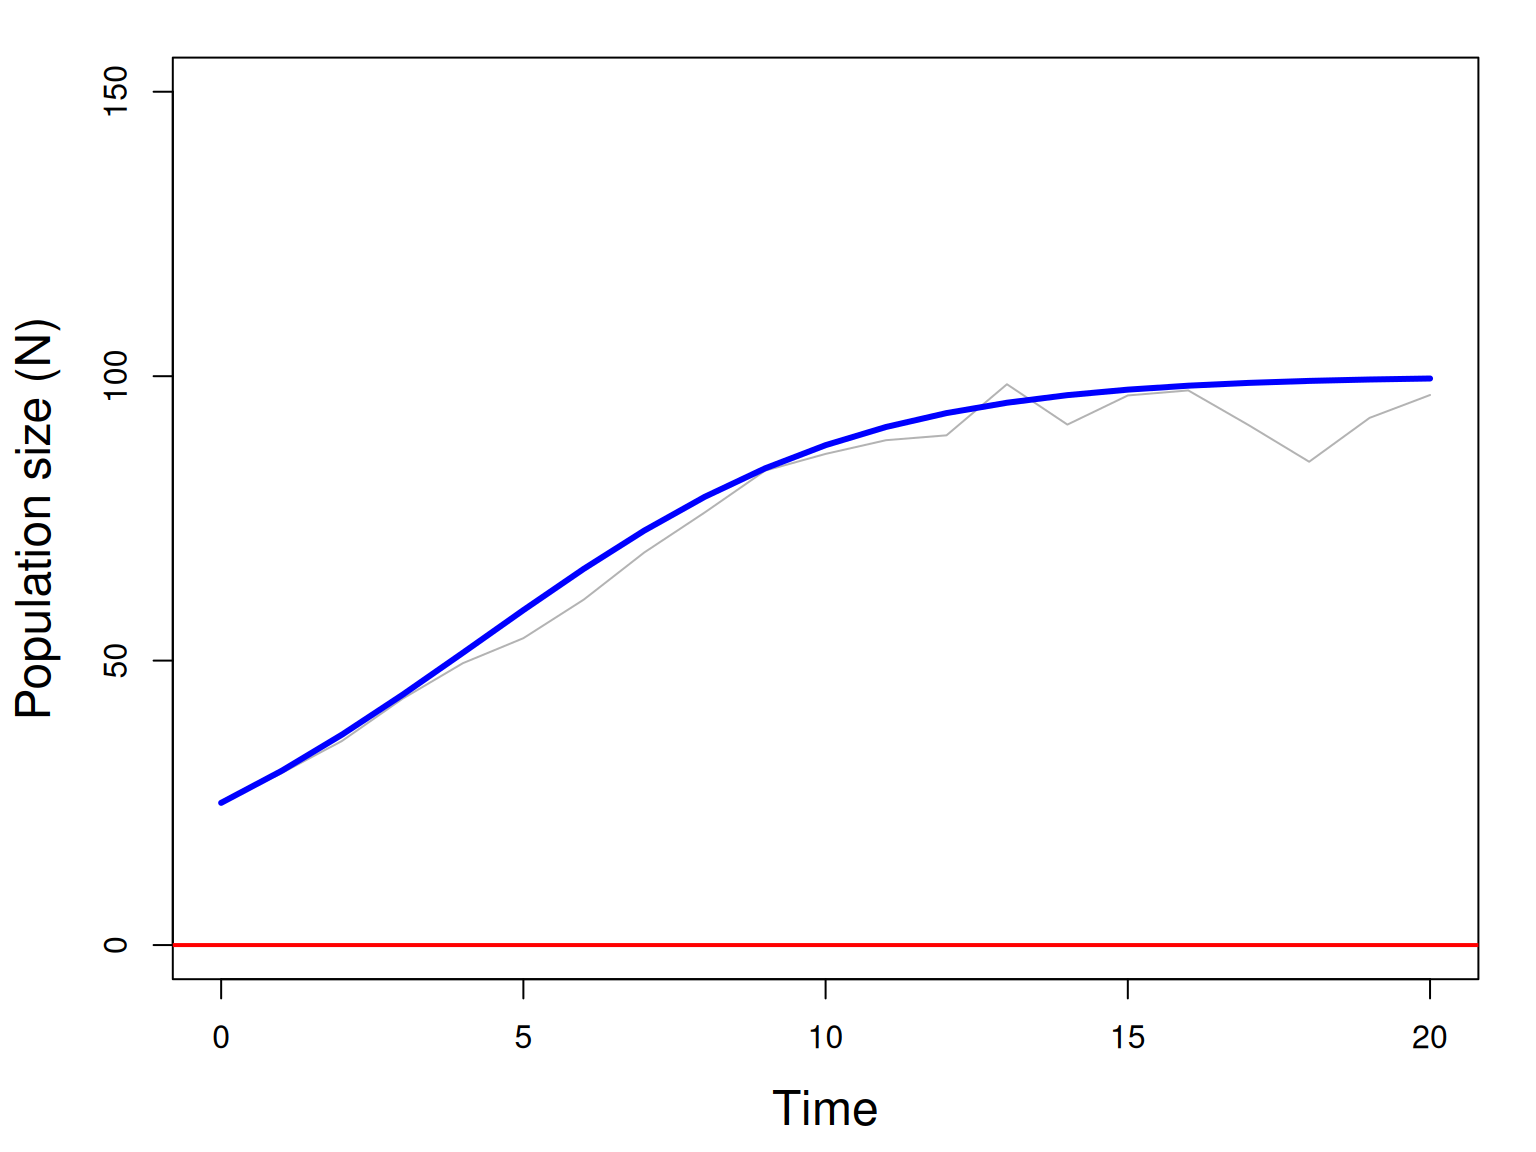
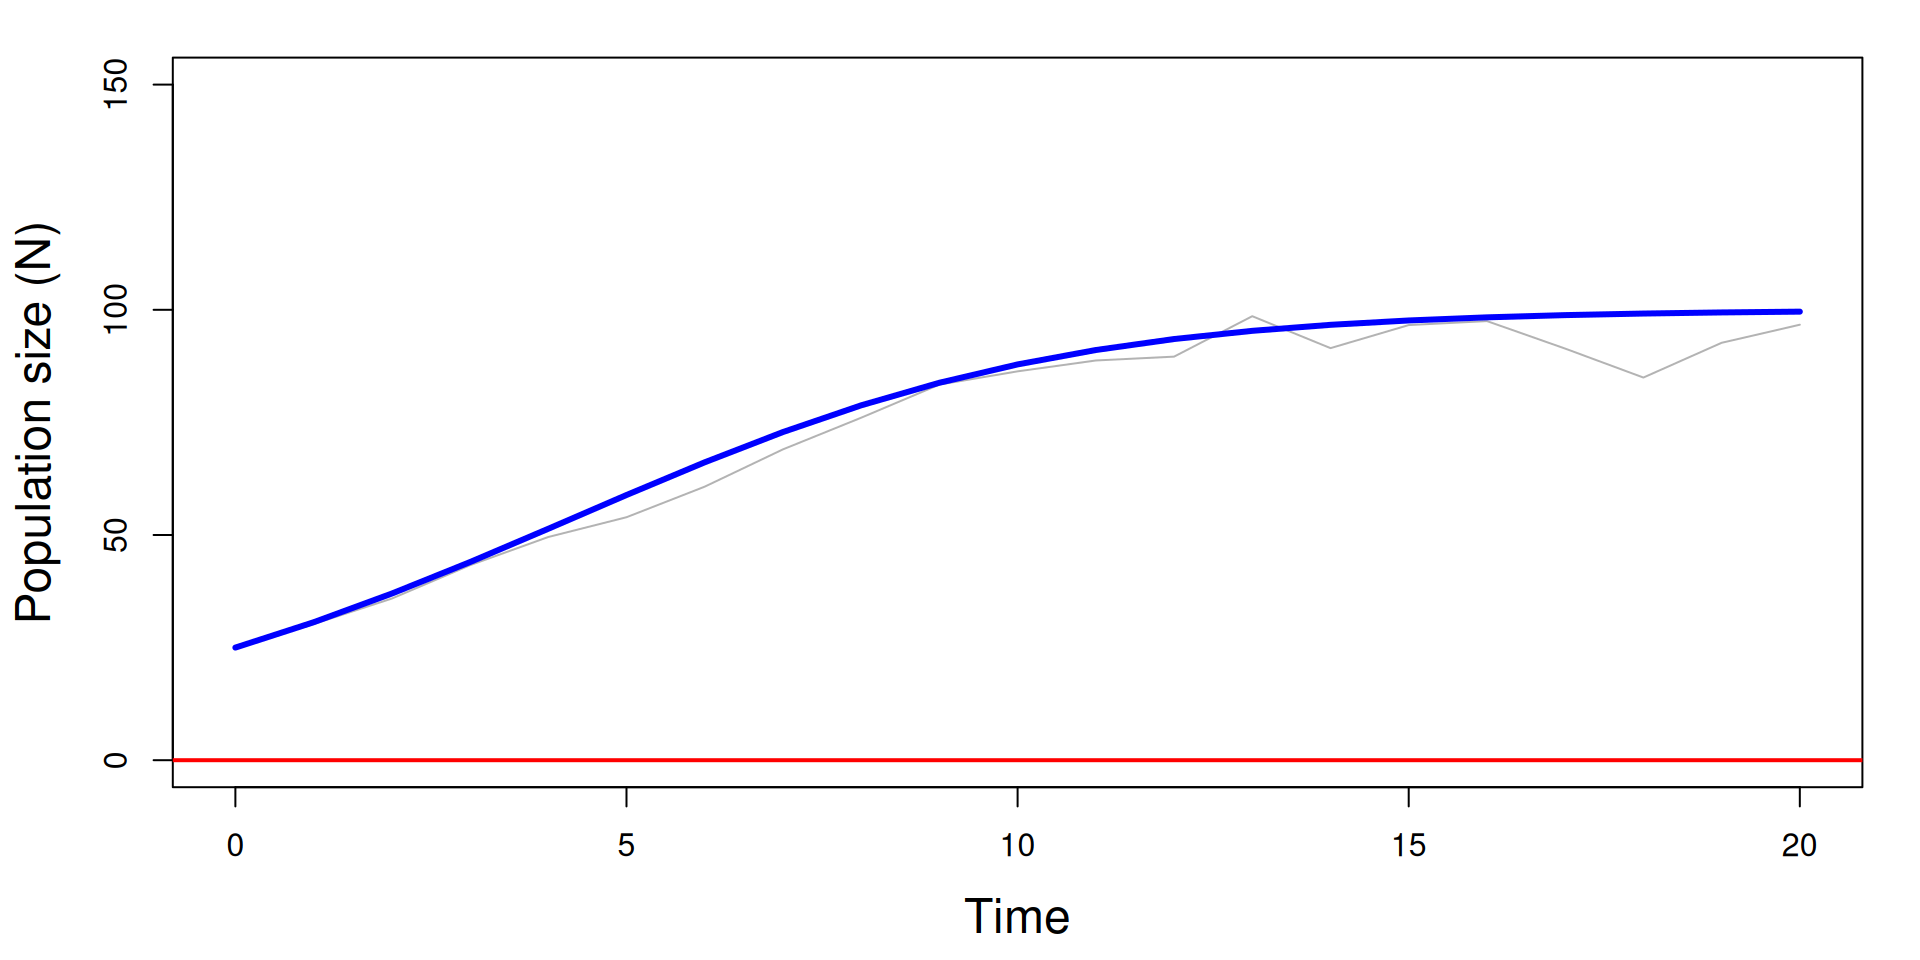
extinction lecture

diff --git a/docs/lectures/extinction/lecture-extinction.html b/docs/lectures/extinction/lecture-extinction.html
@@ -153,19 +153,17 @@
 <section id="extinction" class="slide level2">
 <h2>Extinction</h2>
 <div style="font-size: 80%;">
+<center>
+<a href="https://vimeo.com/42592260"><img data-src="figs/bird-radiation.jpg"></a> <!-- [Hawaiian Bird Extinctions](https://vimeo.com/42592260) --> <!-- http://www.discovery.com/tv-shows/racing-extinction/the-song-of-the-last-kauai-oo-bird/ -->
+</center>
 <ul>
 <li class="fragment">Humans are causing the 6th mass extinction event.</li>
 <li class="fragment">At least 1000 species have gone extinct over past 500 years.</li>
-<li class="fragment">Extinction rate unknown, but may be 100-1000 times higher than during the past 25 million years.</li>
+<li class="fragment">Extinction rate appears to be 100-1000 times higher than during the past 25 million years before humans.</li>
 <li class="fragment">Almost 200 bird species have gone extinct since 1500.</li>
 <li class="fragment">Avian extinctions in GA: passenger pigeon, Bachman’s warbler, ivory-billed woodpecker, Carolina parakeet.</li>
 </ul>
 </div>
-<center>
-<p><img data-src="figs/bird-radiation.jpg"></p>
-<!-- http://www.discovery.com/tv-shows/racing-extinction/the-song-of-the-last-kauai-oo-bird/ -->
-<a href="https://vimeo.com/42592260">Hawaiian Bird Extinctions</a>
-</center>
 <!-- \begin{comment} -->
 <!--   ##  -->
 <!-- BBC series -- Extinction: The Facts -->
@@ -193,16 +191,16 @@
 </section></section>
 <section>
 
-<section id="deterministic-models-1" class="slide level2">
-<h2>Deterministic models</h2>
+<section id="time-to-extinction-te" class="slide level2">
+<h2>Time to extinction <em>T<sub>e</sub></em></h2>
 <div style="font-size: 80%;">
-<p>For a model with no random variation, <em>time to extinction</em> can be calculated easily.</p>
+<p>For a deterministic model, <em>time to extinction</em> can be calculated easily.</p>
 <p><br></p>
 <p>But how should we define extinction?</p>
 <p><br></p>
-<p>Time to quasi-extinction (<span class="math inline">\(T_e\)</span>) is the time it takes for a population to reach an extinction threshold beyond which it is doomed.</p>
+<p><strong>Time to quasi-extinction</strong> (<span class="math inline">\(T_e\)</span>) is the time it takes for a population to reach an extinction threshold beyond which it is doomed.</p>
 <p><br></p>
-<p>Threshold usually based on genetic considerations, Allee effects, …</p>
+<p>Threshold is usually based on genetic considerations, Allee effects, …</p>
 </div>
 </section>
 <section id="geometric-growth-example" class="slide level2">
@@ -244,34 +242,34 @@
 <center>
 <div class="r-stack">
 <div class="fragment fade-out" data-fragment-index="1">
-<p><img data-src="lecture-extinction_files/figure-revealjs/logistic-1.png" style="width:60.0%"></p>
+<p><img data-src="lecture-extinction_files/figure-revealjs/logistic-1.png" style="width:90.0%"></p>
 </div>
 <div class="fragment fade-in-then-out" data-fragment-index="1">
-<p><img data-src="lecture-extinction_files/figure-revealjs/logistic-2.png" style="width:60.0%"></p>
+<p><img data-src="lecture-extinction_files/figure-revealjs/logistic-2.png" style="width:90.0%"></p>
 </div>
 <div class="fragment fade-in-then-out" data-fragment-index="2">
-<p><img data-src="lecture-extinction_files/figure-revealjs/logistic-3.png" style="width:60.0%"></p>
+<p><img data-src="lecture-extinction_files/figure-revealjs/logistic-3.png" style="width:90.0%"></p>
 </div>
 <div class="fragment fade-in-then-out" data-fragment-index="3">
-<p><img data-src="lecture-extinction_files/figure-revealjs/logistic-4.png" style="width:60.0%"></p>
+<p><img data-src="lecture-extinction_files/figure-revealjs/logistic-4.png" style="width:90.0%"></p>
 </div>
 <div class="fragment fade-in-then-out" data-fragment-index="4">
-<p><img data-src="lecture-extinction_files/figure-revealjs/logistic-5.png" style="width:60.0%"></p>
+<p><img data-src="lecture-extinction_files/figure-revealjs/logistic-5.png" style="width:90.0%"></p>
 </div>
 <div class="fragment fade-in-then-out" data-fragment-index="5">
-<p><img data-src="lecture-extinction_files/figure-revealjs/logistic-6.png" style="width:60.0%"></p>
+<p><img data-src="lecture-extinction_files/figure-revealjs/logistic-6.png" style="width:90.0%"></p>
 </div>
 <div class="fragment fade-in-then-out" data-fragment-index="6">
-<p><img data-src="lecture-extinction_files/figure-revealjs/logistic-7.png" style="width:60.0%"></p>
+<p><img data-src="lecture-extinction_files/figure-revealjs/logistic-7.png" style="width:90.0%"></p>
 </div>
 <div class="fragment fade-in-then-out" data-fragment-index="7">
-<p><img data-src="lecture-extinction_files/figure-revealjs/logistic-8.png" style="width:60.0%"></p>
+<p><img data-src="lecture-extinction_files/figure-revealjs/logistic-8.png" style="width:90.0%"></p>
 </div>
 <div class="fragment fade-in-then-out" data-fragment-index="8">
-<p><img data-src="lecture-extinction_files/figure-revealjs/logistic-9.png" style="width:60.0%"></p>
+<p><img data-src="lecture-extinction_files/figure-revealjs/logistic-9.png" style="width:90.0%"></p>
 </div>
 <div class="fragment fade-in-then-out" data-fragment-index="9">
-<p><img data-src="lecture-extinction_files/figure-revealjs/logistic-10.png" style="width:60.0%"></p>
+<p><img data-src="lecture-extinction_files/figure-revealjs/logistic-10.png" style="width:90.0%"></p>
 </div>
 </div>
 </center>
@@ -291,11 +289,14 @@
 <section id="extinction-risk-1" class="slide level2">
 <h2>Extinction risk</h2>
 <p>Zero extinctions in 100 simulations, hence extinction risk is (approximately) zero over the 20 year time horizon.</p>
-<p>Assumptions</p>
+<p><br></p>
+<div class="fragment">
+<p>Assumptions:</p>
 <ul>
 <li>We have the correct model</li>
 <li>We know the parameters with certainty</li>
 </ul>
+</div>
 </section>
 <section id="logistic-example-1" class="slide level2">
 <h2>Logistic example</h2>
@@ -335,7 +336,7 @@
 <p><img data-src="lecture-extinction_files/figure-revealjs/logistic2-9.png" style="width:90.0%"></p>
 </div>
 <div class="fragment fade-in-then-out" data-fragment-index="9">
-<p><img data-src="lecture-extinction_files/figure-revealjs/logistic2-10.png" style="width:90.0%"></p>
+<p><img data-src="lecture-extinction_files/figure-revealjs/logistic2-11.png" style="width:90.0%"></p>
 </div>
 </div>
 </center>
@@ -364,12 +365,11 @@
 </div>
 <p><br></p>
 <div class="fragment">
-<p>Mechanisms</p>
+<p>Possible mechanisms:</p>
 <ul>
 <li>Finding a mate becomes difficult</li>
 <li>Social systems collapse</li>
 <li>Inbreeding depression</li>
-<li>…</li>
 </ul>
 </div>
 <center>
@@ -393,7 +393,9 @@
 <section id="summary" class="slide level2">
 <h2>Summary</h2>
 <p>Humans have increased extinction rates dramatically.</p>
-<p>Models allow us to predict time to extinction and extinction risk.</p>
+<p><br></p>
+<p>Models let us predict time-to-extinction and extinction risk.</p>
+<p><br></p>
 <p>Models can be used to assess effects of management actions on extinction risk.</p>
 <div class="fragment">
 <p><br></p>
